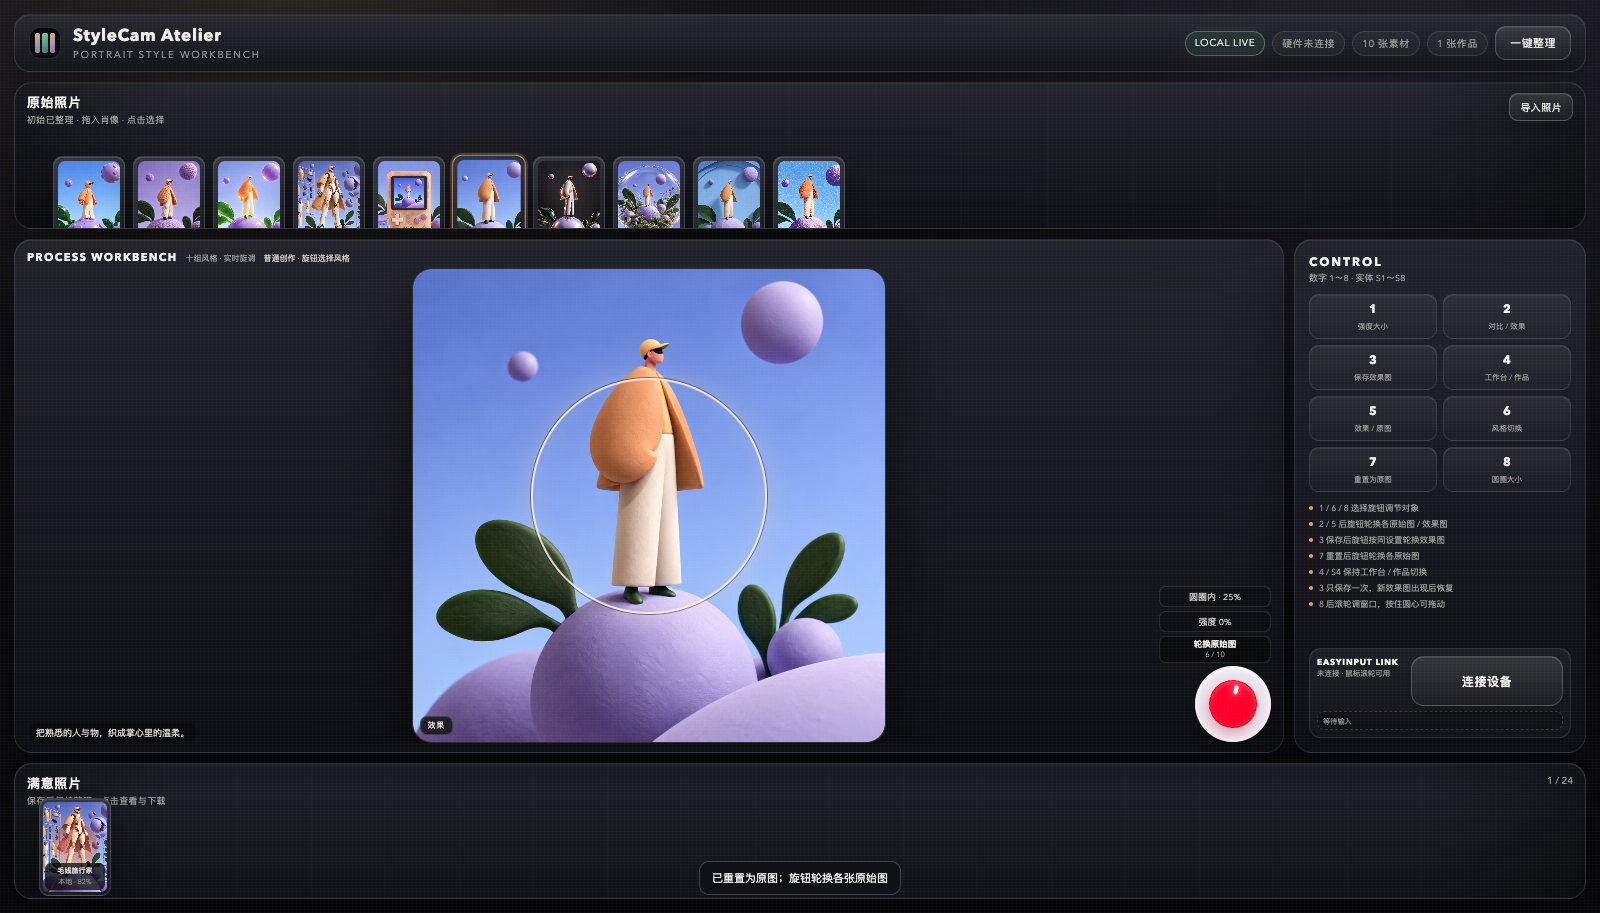
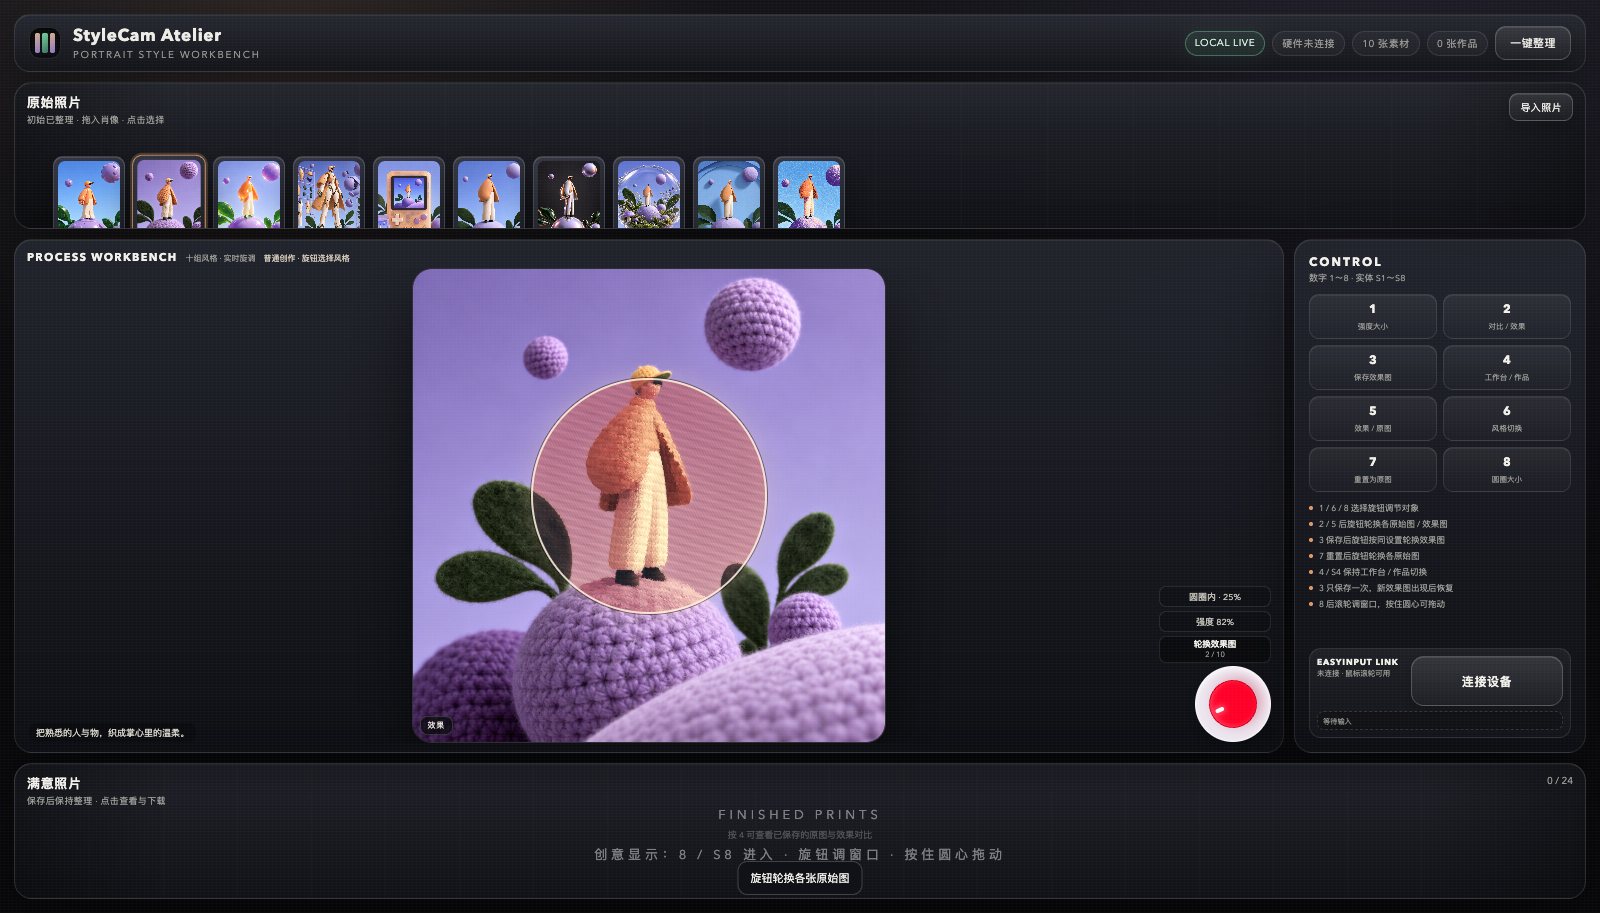
Refine S5 view toggling from comparison

diff --git a/docs/homework/input-mapping.html b/docs/homework/input-mapping.html
@@ -6,7 +6,7 @@ h1{margin:0 0 4px;font-size:28px}h2{margin:25px 0 8px;font-size:18px;color:#f0d5
 table{width:100%;border-collapse:collapse;margin-top:8px;font-size:12px}th,td{padding:8px 9px;border:1px solid rgba(255,255,255,.11);text-align:left}th{color:#d9c7ff;background:rgba(159,140,216,.10)}td:first-child{color:#ffd9ac;font-weight:700}
 .note{margin-top:15px;padding:10px;border-radius:9px;background:rgba(226,109,92,.10);border:1px solid rgba(226,109,92,.28);font-size:11px;line-height:1.6}.cols{display:grid;grid-template-columns:1fr 1fr;gap:14px}
 code{font-family:ui-monospace,Menlo,monospace;color:#b9f0d4}
-</style><div class="sheet"><h1>StyleCam 输入映射表</h1><div class="meta">数字 1～8 = 实体 S1～S8 · Web Serial 115200 baud · 页面 v17</div>
+</style><div class="sheet"><h1>StyleCam 输入映射表</h1><div class="meta">数字 1～8 = 实体 S1～S8 · Web Serial 115200 baud · 页面 v18</div>
 <h2>核心功能</h2><table><tr><th>数字 / 实体键</th><th>功能</th><th>说明</th></tr><tr><td>1 / S1</td><td>强度大小</td><td>旋钮 / 滚轮调整强度</td></tr><tr><td>2 / S2</td><td>对比 / 效果</td><td>切换后旋钮保持当前视图，轮换各原始图</td></tr><tr><td>3 / S3</td><td>保存效果图</td><td>只保存一次；旋钮按同风格 / 同强度轮换效果图</td></tr><tr><td>4 / S4</td><td>工作台 / 作品</td><td>弹窗打开则返回，否则查看作品</td></tr><tr><td>5 / S5</td><td>效果 / 原图</td><td>切换后旋钮保持当前视图，轮换原始图 / 效果图</td></tr><tr><td>6 / S6</td><td>风格切换</td><td>旋钮 / 滚轮切换 10 种风格</td></tr><tr><td>7 / S7</td><td>重置为原图</td><td>强度归零；旋钮轮换各原始图</td></tr><tr><td>8 / S8</td><td>圆圈大小</td><td>进入创意显示并调整窗口</td></tr></table>
 <div class="cols"><div><h2>旋钮</h2><table><tr><th>状态</th><th>行为</th></tr><tr><td>默认 / 6</td><td>切换风格</td></tr><tr><td>1</td><td>强度 ±5%</td></tr><tr><td>8</td><td>圆圈大小</td></tr><tr><td>2 / 5</td><td>保持当前视图，轮换各原始图</td></tr><tr><td>3</td><td>按同风格 / 同强度轮换效果图</td></tr><tr><td>7</td><td>轮换各原始图</td></tr><tr><td>4</td><td>切换已保存作品（S4 保持不变）</td></tr><tr><td>按下 · 1</td><td>确认强度并生成</td></tr><tr><td>按下 · 8</td><td>确认创意窗口</td></tr></table></div>
 <div><h2>串口协议</h2><table><tr><th>输入</th><th>示例</th></tr><tr><td>编码器</td><td><code>{"type":"encoder","delta":1}</code></td></tr><tr><td>编码器按下</td><td><code>ENC_PRESS</code></td></tr><tr><td>S 键</td><td><code>S3_DOWN</code></td></tr><tr><td>数字别名</td><td><code>3_DOWN</code></td></tr><tr><td>JSON 数字</td><td><code>{"key":"3","action":"down"}</code></td></tr></table></div></div>

diff --git a/app.js b/app.js
@@ -1312,9 +1312,12 @@
         }
         break;
       case 'original':
-        setView(state.view === 'original' ? 'effect' : 'original');
+        // S5 is dedicated to the current source's original/effect pair. A
+        // compare view is treated as the effect side, so S5 always lands on
+        // the effect first rather than jumping directly to the original.
+        setView(state.view === 'effect' ? 'original' : 'effect');
         setMode('source');
-        showTap(state.view === 'original' ? '旋钮轮换各张效果图' : '旋钮轮换各张原始图');
+        showTap(state.view === 'effect' ? '旋钮轮换各张原始图' : '旋钮轮换各张效果图');
         break;
       case 'style':
         setCreativeDisplay(false);

diff --git a/docs/homework/input-mapping.md b/docs/homework/input-mapping.md
@@ -1,6 +1,6 @@
 # StyleCam 输入映射表
 
-适用页面：`http://127.0.0.1:4174/?v=17`
+适用页面：`http://127.0.0.1:4174/?v=18`
 
 当前网页数字键 `1～8` 与实体键 `S1～S8` 使用同一套映射。
 
@@ -12,7 +12,7 @@
 | `2` | `S2` | 切换 对比图 / 效果图 | 切换后旋钮保持当前视图，轮换各原始图 |
 | `3` | `S3` | 保存效果图 | 只保存一次；随后旋钮按同风格 / 同强度轮换各原始图效果图 |
 | `4` | `S4` | 回到工作台 / 查看作品 | 弹窗打开时返回；未打开时查看已保存作品 |
-| `5` | `S5` | 切换 效果图 / 原图 | 切换后旋钮保持当前视图，轮换各原始图或对应效果图 |
+| `5` | `S5` | 切换 效果图 / 原图 | 当前素材原图 / 效果成对切换；对比图状态下先进入效果图 |
 | `6` | `S6` | 风格切换 | 选中后旋钮 / 滚轮切换 10 种风格 |
 | `7` | `S7` | 效果图重置为原图 | 强度归零并显示原图；随后旋钮轮换各原始图 |
 | `8` | `S8` | 圆圈大小 | 进入创意显示；旋钮 / 滚轮调整圆形窗口 |

diff --git a/docs/homework/demo-script.md b/docs/homework/demo-script.md
@@ -6,7 +6,7 @@
 
 | 时间 | 画面与操作 | 必须可见 |
 | --- | --- | --- |
-| 00:00–00:08 | 打开 `http://127.0.0.1:4174/?v=17`；点击“连接设备”，选择 EasyInput 串口 | 顶部“硬件已连接”和串口实体事件 |
+| 00:00–00:08 | 打开 `http://127.0.0.1:4174/?v=18`；点击“连接设备”，选择 EasyInput 串口 | 顶部“硬件已连接”和串口实体事件 |
 | 00:08–00:16 | 点击“导入照片”，选择自己的肖像素材 | 上传文件名 / 原图出现在工作台 |
 | 00:16–00:26 | 默认状态下转动实体旋钮，浏览至少 3 种风格 | `风格切换` 和风格名称变化 |
 | 00:26–00:38 | 按 `1 / S1` 选择强度；旋钮调整；旋钮按下确认生成 | `强度大小`、强度百分比、生成状态提示 |

diff --git a/README.md b/README.md
@@ -15,7 +15,7 @@ A portrait style workbench with:
 npm start
 ```
 
-Open <http://127.0.0.1:4174/?v=17>.
+Open <http://127.0.0.1:4174/?v=18>.
 
 ## Optional AI mode
 
